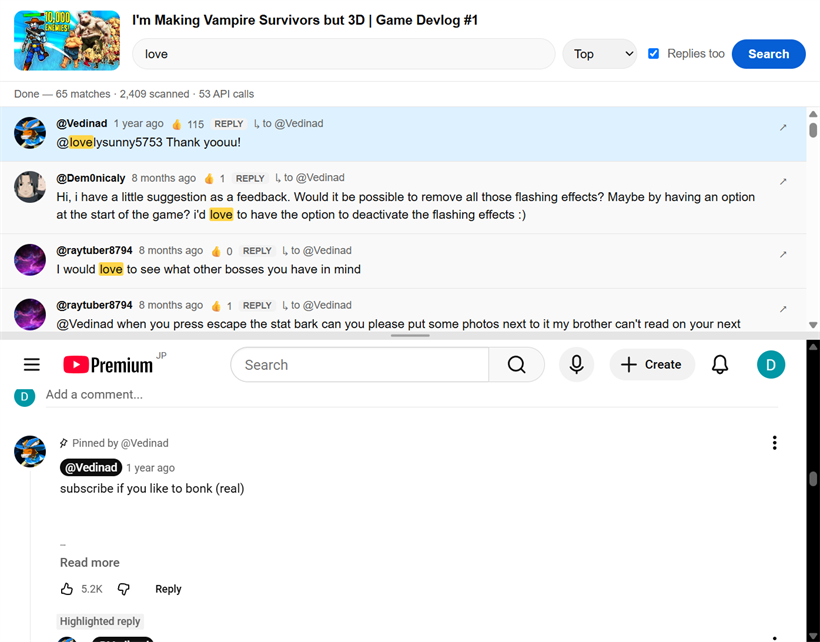
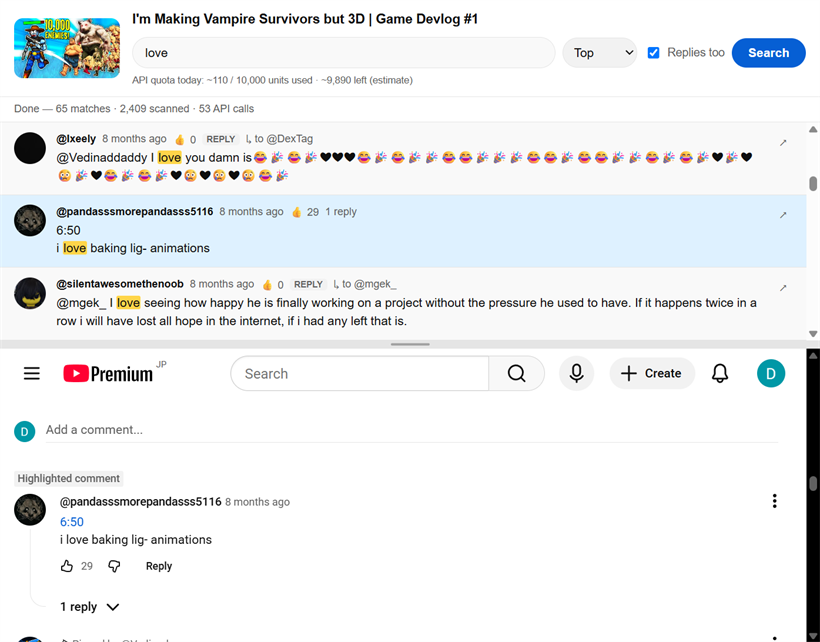
Fix comment deep-link scroll; persist Replies-too; plainer docs
Find in comments: fix the bottom pane scrolling to the pinned comment
instead of the one you clicked. YouTube marks the &lc= comment with a
`linked` attribute (not `highlighted`), and embed.ts was also giving up as
soon as any comment loaded. It now targets the `linked` marker and keeps
polling until it renders, so the clicked comment ends up centered.

Persist the "Replies too" checkbox across sessions (commentSearchReplies
setting): restored when the search window opens, saved when toggled.

README and PRIVACY: remove em-dashes and decorative emoji, plainer voice.

Regenerate the comment-search screenshots so they show the clicked comment
in the bottom pane.

diff --git a/src/content/embed.ts b/src/content/embed.ts
@@ -28,19 +28,23 @@ if (window.top !== window.self && window.name === 'syf-embed') {
 
     if (hasLc && !revealed) {
       const comments = document.querySelector('#comments') as HTMLElement | null;
+      // YouTube marks the &lc= deep-linked comment with a `linked` attribute on the
+      // ytd-comment-view-model (the one shown under the "Highlighted comment/reply" header).
+      // (`[highlighted]` is an older marker, kept as a fallback.)
       const linked = document.querySelector(
-        'ytd-comment-thread-renderer[highlighted], ytd-comment-view-model[highlighted], #comments [highlighted]'
+        'ytd-comment-view-model[linked], ytd-comment-thread-renderer[linked], #comments [highlighted]'
       ) as HTMLElement | null;
       if (linked) {
         linked.scrollIntoView({ block: 'center' });
-        revealed = true; // found the exact comment — stop here
-      } else if (comments && comments.querySelector('ytd-comment-thread-renderer')) {
-        // Threads loaded but no explicit highlight marker — the linked comment is
-        // pinned at the top of #comments, so showing the section reveals it.
-        comments.scrollIntoView({ block: 'start' });
-        revealed = true;
+        revealed = true; // found and centered the exact comment — done
       } else if (comments) {
-        comments.scrollIntoView({ block: 'start' }); // not loaded yet — nudge the lazy-load
+        // Keep nudging #comments into view (triggers its lazy-load) AND keep polling for the
+        // highlighted comment: it renders a beat after the first threads do, and when the video
+        // has a separate pinned comment that one sits at the very top — so stopping at "threads
+        // exist" would leave us showing the pinned comment, not the one the user clicked.
+        comments.scrollIntoView({ block: 'start' });
+        // Fallback: if the highlight marker never appears (~5s), at least leave the section shown.
+        if (comments.querySelector('ytd-comment-thread-renderer') && ticks >= 12) revealed = true;
       }
     }
   };

diff --git a/src/comments/search.ts b/src/comments/search.ts
@@ -3,7 +3,7 @@
 // watch page, framed and scrolled to the clicked comment (header-stripped by our
 // declarativeNetRequest rule), so Like/Reply happen natively. Draggable divider.
 import { SETTINGS_KEY, DEFAULT_SCAN_CAP, MIN_SCAN_CAP, MAX_SCAN_CAP } from '../common/messages';
-import type { SyfMessage, CommentsPageResult, RepliesPageResult, CsComment, CsThread, QuotaResult } from '../common/messages';
+import type { SyfMessage, SyfSettings, CommentsPageResult, RepliesPageResult, CsComment, CsThread, QuotaResult } from '../common/messages';
 
 const params = new URLSearchParams(location.search);
 const videoId = params.get('v') || '';
@@ -28,7 +28,7 @@ async function updateQuota(): Promise<void> {
     const r = (await chrome.runtime.sendMessage({ type: 'SYF_GET_QUOTA' } as SyfMessage)) as QuotaResult | undefined;
     if (!r?.ok) return;
     const remaining = Math.max(0, r.limit - r.used);
-    quotaEl.textContent = `API quota today: ~${r.used.toLocaleString()} / ${r.limit.toLocaleString()} units used · ~${remaining.toLocaleString()} left (estimate)`;
+    quotaEl.textContent = `Google API quota today: ~${r.used.toLocaleString()} / ${r.limit.toLocaleString()} units used · ~${remaining.toLocaleString()} left (estimate)`;
   } catch {
     /* ignore */
   }
@@ -133,8 +133,10 @@ function showBelow(commentId: string, row: HTMLElement): void {
 // bounds one scan's time + API quota.
 let scanCap = DEFAULT_SCAN_CAP;
 chrome.storage.local.get(SETTINGS_KEY).then((o) => {
-  const v = (o[SETTINGS_KEY] as { commentScanCap?: number } | undefined)?.commentScanCap;
+  const s = o[SETTINGS_KEY] as SyfSettings | undefined;
+  const v = s?.commentScanCap;
   if (typeof v === 'number' && Number.isFinite(v)) scanCap = Math.min(Math.max(v, MIN_SCAN_CAP), MAX_SCAN_CAP);
+  if (typeof s?.commentSearchReplies === 'boolean') repliesChk.checked = s.commentSearchReplies; // restore the remembered toggle
 });
 const FRESH_MS = 5 * 60 * 1000;
 
@@ -381,6 +383,12 @@ qInput.addEventListener('keydown', (e) => {
 });
 stopBtn.addEventListener('click', () => {
   stop = true;
+});
+// Remember the "Replies too" choice across sessions (serialized merge in the SW).
+repliesChk.addEventListener('change', () => {
+  void chrome.runtime
+    .sendMessage({ type: 'SYF_PATCH_SETTINGS', patch: { commentSearchReplies: repliesChk.checked } } as SyfMessage)
+    .catch(() => {});
 });
 qInput.focus();
 void updateQuota();

diff --git a/src/common/messages.ts b/src/common/messages.ts
@@ -160,6 +160,7 @@ export interface SyfSettings {
   feedbackTtlDays?: number; // how long a cached feedback token is considered usable
   maxCacheVideos?: number; // LRU cap for the feedback cache, applied to both videos and channels
   commentScanCap?: number; // "Find in comments": comments loaded per scan before pausing for "Load more"
+  commentSearchReplies?: boolean; // "Find in comments": remembered state of the "Replies too" checkbox
   apiDailyQuota?: number; // your YouTube Data API daily quota (units); for the "used today" gauge
   hideShorts?: boolean; // hide Shorts shelves/cards from feeds
   lastHistoryPaused?: boolean; // cached watch-history state for the bar toggle label
@@ -173,6 +174,7 @@ export const DEFAULT_SETTINGS: SyfSettings = {
   feedbackTtlDays: 7,
   maxCacheVideos: DEFAULT_CACHE_CAP,
   commentScanCap: DEFAULT_SCAN_CAP,
+  commentSearchReplies: false,
   apiDailyQuota: DEFAULT_DAILY_QUOTA,
   hideShorts: false,
 };

diff --git a/README.md b/README.md
@@ -1,35 +1,37 @@
 <div align="center">
   <img src="docs/images/icon128.png" width="96" height="96" alt="Seth's YouTube Fixer icon" />
   <h1>Seth's YouTube Fixer</h1>
-  <p><b>Take back control of YouTube.</b> Tell it what you don't want, wipe what you just watched, and search every comment on a video — all from one little bar under the player.</p>
+  <p><b>Take back control of YouTube.</b> Tell it what you don't want, wipe what you just watched, and search every comment on a video, all from one small bar under the player.</p>
 </div>
 
 <p align="center">
   <img src="docs/images/feature-bar.png" width="640" alt="The Seth's YouTube Fixer button bar under a YouTube video" />
 </p>
 
-A free Chrome/Brave extension. No accounts, no tracking, no servers — everything happens in your own browser.
+A free Chrome and Brave extension. No accounts, no tracking, no servers. Everything happens in your own browser.
+
+I doubt this will ever be on the Chrome Web Store, so if you want this, you'll have to install it as an "unpacked" extension. See below for instructions.
 
 ---
 
 ## What it does
 
-### 👎 Less like this
+### Less like this
 One click sends YouTube's **real** "Not interested" signal for the video you're watching, so its recommendations actually learn. Click again to undo.
 
-### 🚫 Don't recommend channel
+### Don't recommend channel
 One click sends YouTube's **real** "Don't recommend channel" signal for the creator. Click again to undo.
 
-> These aren't fake — the buttons reuse YouTube's own feedback actions. A button stays gray until YouTube has shown you that video/channel as a recommendation card (that's where the real action lives). Just browse Home or the sidebar for a moment and it lights up.
+> These aren't fake. The buttons reuse YouTube's own feedback actions. A button stays gray until YouTube has shown you that video or channel as a recommendation card, which is where the real action lives. Browse Home or the sidebar for a moment and it lights up.
 
-### 🧹 Wipe history
-Delete the last 15 / 30 / 60 / 120 minutes (or a custom window) of YouTube watch &amp; search history from your Google account. You get to **review the exact list before anything is deleted**.
+### Wipe history
+Delete the last 15, 30, 60, or 120 minutes (or a custom window) of YouTube watch and search history from your Google account. You get to **review the exact list before anything is deleted**.
 
-### ⏸ Pause history
-Flip YouTube's watch-history recording on or off without digging through settings.
+### Pause history
+Turn YouTube's watch-history recording on or off without digging through settings.
 
-### 🔎 Find in comments
-Search **every** public comment and reply on a video — something YouTube itself won't let you do. Click a match and the **real YouTube page** opens right below it, scrolled to that comment, so you can Like or Reply normally.
+### Find in comments
+Search **every** public comment and reply on a video, something YouTube itself won't let you do. Click a match and the **real YouTube page** opens right below it, scrolled to that comment, so you can Like or Reply normally.
 
 <p align="center">
   <img src="docs/images/feature-find-comments.png" width="480" alt="Searching every comment on a video" />
@@ -37,7 +39,7 @@ Search **every** public comment and reply on a video — something YouTube itsel
   <img src="docs/images/feature-comments-live.png" width="430" alt="Clicking a match opens the real comment below" />
 </p>
 
-### 🩳 Hide Shorts
+### Hide Shorts
 A single toggle hides Shorts shelves, cards, and the sidebar link across YouTube.
 
 ---
@@ -46,40 +48,41 @@ A single toggle hides Shorts shelves, cards, and the sidebar link across YouTube
 
 This extension isn't on the Chrome Web Store, so you install it as an "unpacked" extension. It takes about a minute and is completely standard.
 
-1. **Get the extension folder.**
-   - Download the latest `seths-youtube-fixer-vX.X.X.zip` (or build it yourself — see [below](#build-it-yourself)) and **unzip it** to a folder you'll keep (e.g. `Documents\SethsYoutubeFixer`). Don't delete this folder later — the browser loads from it.
+1. **Get the extension folder.** Download the latest `seths-youtube-fixer-vX.X.X.zip` (or build it yourself, see [below](#build-it-yourself)) and **unzip it** to a folder you'll keep, for example `Documents\SethsYoutubeFixer`. Don't delete this folder later, because the browser loads from it.
 2. Open your extensions page:
    - **Chrome:** go to `chrome://extensions`
    - **Brave:** go to `brave://extensions`
 3. Turn on **Developer mode** (toggle in the top-right corner).
 4. Click **Load unpacked** and select the unzipped folder.
-5. Done! Click the puzzle-piece 🧩 icon in the toolbar and **pin** "Seth's YouTube Fixer" so you can reach its settings easily.
+5. Done. Click the puzzle-piece icon in the toolbar and **pin** "Seth's YouTube Fixer" so you can reach its settings easily.
 
 Open any YouTube video and you'll see the new bar under the player.
 
-> **Updating later:** download/build a new zip, unzip it over the same folder (replace files), then click the **↻ reload** icon on the extension's card at `chrome://extensions`.
+> **Updating later:** download or build a new zip, unzip it over the same folder (replacing the files), then click the reload icon on the extension's card at `chrome://extensions`.
 
 ---
 
 ## Optional: turn on comment search
 
-"Find in comments" needs a free **YouTube Data API key** (this is the only feature that does — everything else works with no setup). It's your own key, used only from your browser, on your own daily quota.
+"Find in comments" needs a free **YouTube Data API key**. It's the only feature that does; everything else works with no setup. The key is your own, used only from your browser, on your own daily quota.
 
-1. Click the extension's **ℹ Info** button (or the toolbar icon → **Settings**).
-2. Follow the step-by-step instructions there to create a free key (~3 minutes in the Google Cloud Console).
-3. Paste the key in and **Save**. It's stored only on your computer and hidden by default — click **Show** to check it.
+1. Click the extension's **Info** button (or open the toolbar icon and choose **Settings**).
+2. Follow the step-by-step instructions there to create a free key. It takes about 3 minutes in the Google Cloud Console.
+3. Paste the key in and **Save**. It's stored only on your computer and hidden by default. Click **Show** to check it.
 
-Settings also show an **estimate of how much of your daily API quota you've used today** (it resets at midnight Pacific, like Google's), and the search window keeps a running tally — so you can see how much headroom you have. You can set how many comments each search loads (default 50,000) there too.
+Settings also show an **estimate of how much of your daily Google Youtube API quota you've used today**, and the search window keeps a running tally, so you can see how much headroom you have. You can set how many comments each search loads (default 50,000) there too.
 
 ---
 
 ## Privacy
 
 - **Everything stays in your browser.** No analytics, no telemetry, no third-party servers.
-- The extension stores, locally: captured feedback actions, video/channel IDs &amp; titles, your API key, and a short-lived in-memory comment cache.
+- The extension stores, locally: captured feedback actions, video and channel IDs and titles, your API key, and a short-lived in-memory comment cache.
 - It **never** stores your Google password, cookies, or session tokens.
 - The only network calls are to **YouTube** (your own logged-in session, the same actions the site already offers) and **Google's API** (only for comment search, with your key).
 - **Reset data for this extension** (in Settings) erases all of the above at any time.
+
+See [PRIVACY.md](PRIVACY.md) for the full policy.
 
 ---
 
@@ -91,24 +94,24 @@ You need [Node.js](https://nodejs.org/) (18+).
 npm install
 ```
 
-**To produce an installable zip** (Windows): double-click **`build_release.bat`**. It builds the extension and writes `releases\seths-youtube-fixer-vX.X.X.zip`, ready to unzip and "Load unpacked," or to upload to the Chrome Web Store dashboard.
+**To produce an installable zip** (Windows): double-click **`build_release.bat`**. It builds the extension and writes `releases\seths-youtube-fixer-vX.X.X.zip`, ready to unzip and "Load unpacked", or to upload to the Chrome Web Store dashboard.
 
 **Or build the folder manually:**
 
 ```bash
-npm run build      # bundles src/ -> dist/   (load dist/ as unpacked)
+npm run build      # bundles src/ into dist/   (load dist/ as unpacked)
 npm run watch      # rebuild on change
 npm run typecheck  # tsc --noEmit
 ```
 
-### Developing &amp; testing
+### Developing and testing
 
-There's a CDP-based harness that drives the extension in a real, signed-in Chrome profile (Chrome blocks the `--load-extension` switch, so a dedicated dev profile is loaded once via the UI and reused).
+There's a CDP-based harness that drives the extension in a real, signed-in Chrome profile. Chrome blocks the `--load-extension` switch, so a dedicated dev profile is loaded once via the UI and reused.
 
 ```bash
-npm run setup      # one-time: opens a dev profile at chrome://extensions to Load unpacked + sign in
-npm run reload     # rebuild + hot-reload into the running Chrome
-npm run drive      # rebuild + reload + quick smoke (injects the bar, screenshots)
+npm run setup      # one-time: opens a dev profile at chrome://extensions to Load unpacked and sign in
+npm run reload     # rebuild and hot-reload into the running Chrome
+npm run drive      # rebuild, reload, and run a quick smoke test (injects the bar, screenshots)
 npm test           # full Playwright suite
 ```
 

diff --git a/PRIVACY.md b/PRIVACY.md
@@ -1,4 +1,4 @@
-# Privacy Policy — Seth's YouTube Fixer
+# Privacy Policy for Seth's YouTube Fixer
 
 _Last updated: 2026-06-17_
 
@@ -11,14 +11,14 @@ is ever sold or shared.**
 
 Using Chrome's `storage.local`, on your device:
 
-- **Feedback actions it captures from YouTube** — video IDs, channel IDs, video titles,
-  channel names, and the "Not interested" / "Don't recommend channel" action tokens that
-  YouTube itself puts on recommendation cards. These power the "Less like this" /
+- **Feedback actions it captures from YouTube:** video IDs, channel IDs, video titles,
+  channel names, and the "Not interested" and "Don't recommend channel" action tokens that
+  YouTube itself puts on recommendation cards. These power the "Less like this" and
   "Don't recommend channel" buttons and the action log.
-- **An action log** — a record of feedback actions you took (so you can undo/redo them).
-- **Your settings** — including your optional YouTube Data API key (used only for comment
+- **An action log:** a record of feedback actions you took, so you can undo or redo them.
+- **Your settings:** including your optional YouTube Data API key (used only for comment
   search), the Hide Shorts toggle, and cache limits.
-- **A short-lived comment cache** — when you use "Find in comments," fetched comments are
+- **A short-lived comment cache:** when you use "Find in comments", fetched comments are
   held **in memory only, for about 5 minutes, and discarded when you close the window.**
 
 You can erase all of the above at any time with **Reset data for this extension** in the
@@ -26,7 +26,7 @@ settings page.
 
 ## What it never stores or transmits
 
-- It **never** stores your Google/YouTube password, cookies, or session tokens.
+- It **never** stores your Google or YouTube password, cookies, or session tokens.
 - It has **no servers and no analytics**. No usage data, telemetry, or personal
   information is ever sent to the developer or any third party.
 - Your data is **never sold, shared, or used for advertising.**
@@ -35,14 +35,14 @@ settings page.
 
 The extension only ever talks to:
 
-1. **YouTube (`youtube.com`)** — using **your own existing logged-in session**, to perform
-   the same actions the site already offers you (submit "Not interested" / "Don't recommend
-   channel" feedback, pause/resume watch history) and to display the real YouTube page in
+1. **YouTube (`youtube.com`):** using **your own existing logged-in session**, to perform
+   the same actions the site already offers you (submit "Not interested" and "Don't recommend
+   channel" feedback, pause or resume watch history) and to display the real YouTube page in
    the comment-search window.
-2. **Google's My Activity (`myactivity.google.com`)** — using your existing session, only
-   when you use "Wipe history," to delete YouTube activity you select.
-3. **Google's YouTube Data API (`googleapis.com`)** — only if you add an API key and use
-   "Find in comments," to read public comments. The request includes **your** API key and
+2. **Google's My Activity (`myactivity.google.com`):** using your existing session, only
+   when you use "Wipe history", to delete YouTube activity you select.
+3. **Google's YouTube Data API (`googleapis.com`):** only if you add an API key and use
+   "Find in comments", to read public comments. The request includes **your** API key and
    uses **your** daily quota.
 
 No other destinations are contacted.
@@ -55,9 +55,9 @@ screen. It is never synced, uploaded, or shared.
 
 ## Permissions
 
-The extension requests only the permissions it needs to do the above (storage, access to
-YouTube / My Activity / the Google API, the ability to open helper tabs, and the ability to
-display the real YouTube page inside its comment-search window). It does not run on, read,
+The extension requests only the permissions it needs to do the above: storage, access to
+YouTube, My Activity, and the Google API, the ability to open helper tabs, and the ability to
+display the real YouTube page inside its comment-search window. It does not run on, read,
 or modify any site other than YouTube and Google My Activity.
 
 ## Changes
@@ -66,4 +66,4 @@ If this policy changes, the updated version will be posted with a new "Last upda
 
 ## Contact
 
-Seth A. Robinson — <https://www.rtsoft.com>
+Seth A. Robinson, <https://www.rtsoft.com>

diff --git a/AGENTS.md b/AGENTS.md
@@ -161,6 +161,8 @@ ids stay `nah` / `hate-channel`** and the cache/log keys are unchanged.
   "Reset counter"; the search window shows a compact readout (refreshed after each search). It's an
   estimate (doesn't see other consumers of the same key). `QUOTA_KEY` is in `ALL_STORAGE_KEYS` (cleared
   by Reset). Validated end-to-end: counter == actual API calls, both UIs render, limit + reset work.
+  The **"Replies too" checkbox now persists** (`settings.commentSearchReplies`): restored when the
+  search window opens, saved (via `SYF_PATCH_SETTINGS`) whenever toggled.
 - **Security & known residuals** (from the 2026-06-16 adversarial review; fixes landed for storage
   races, the debug globals, CSP, sender check, and transient-vs-permanent history backoff). Still
   open, low-risk for personal single-account English use — revisit before any wider distribution: